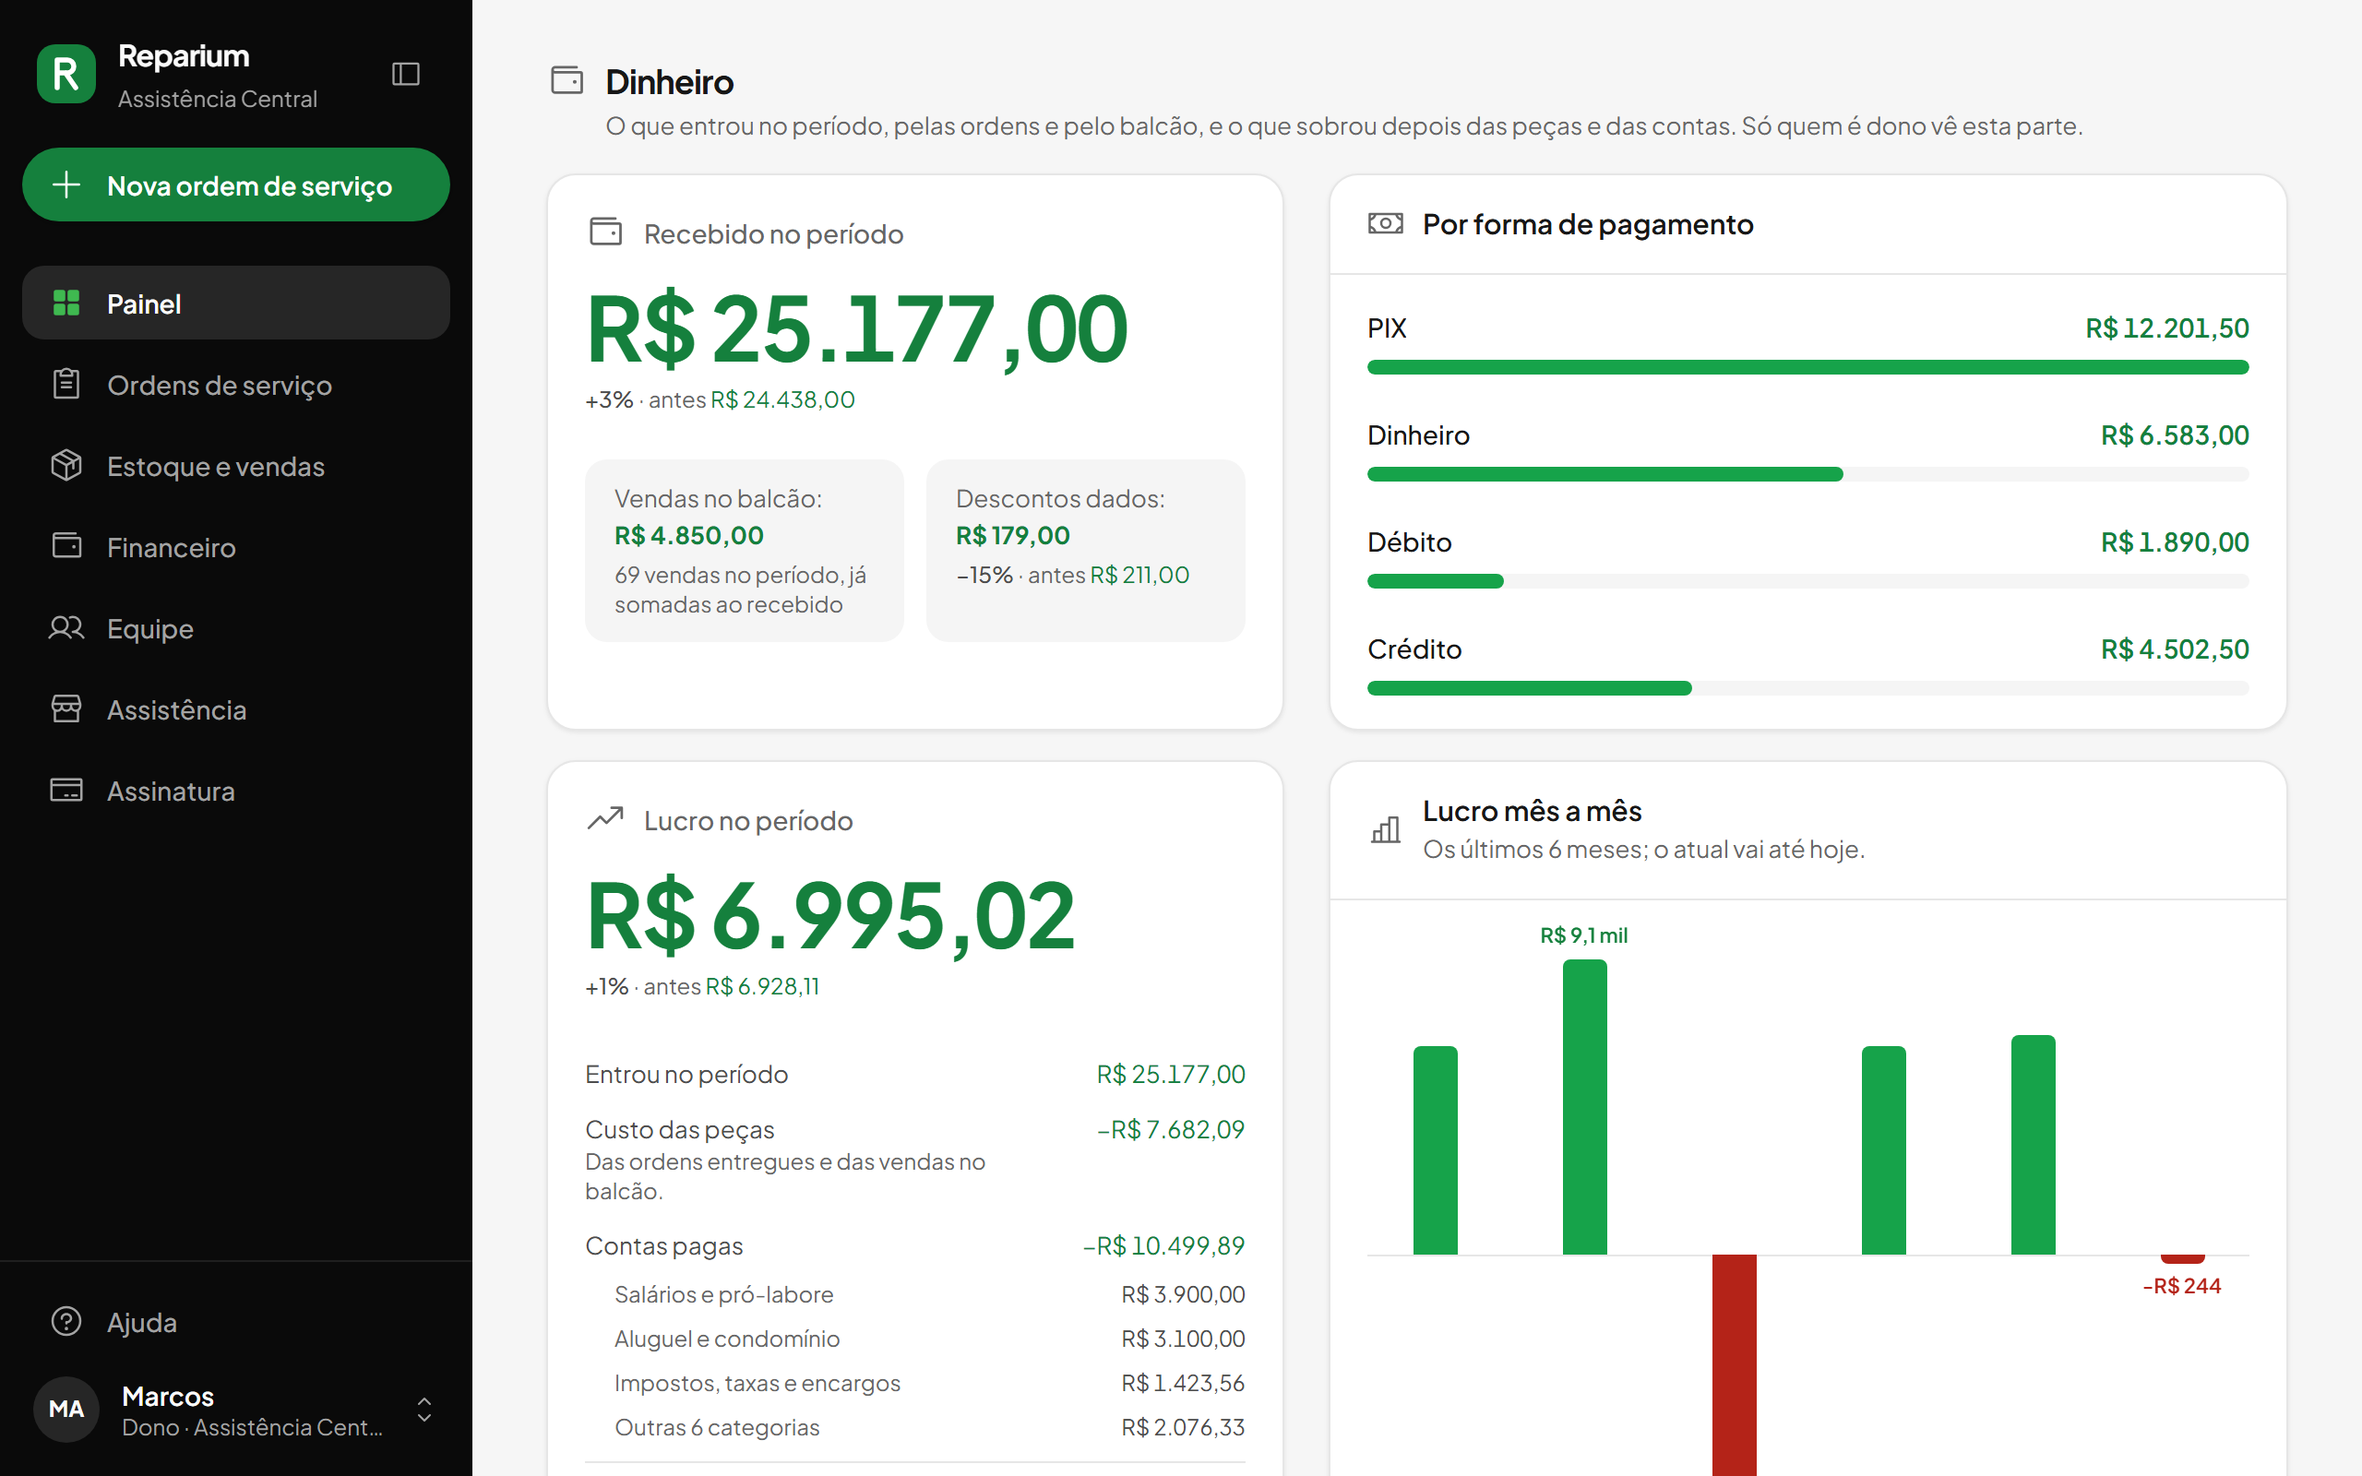
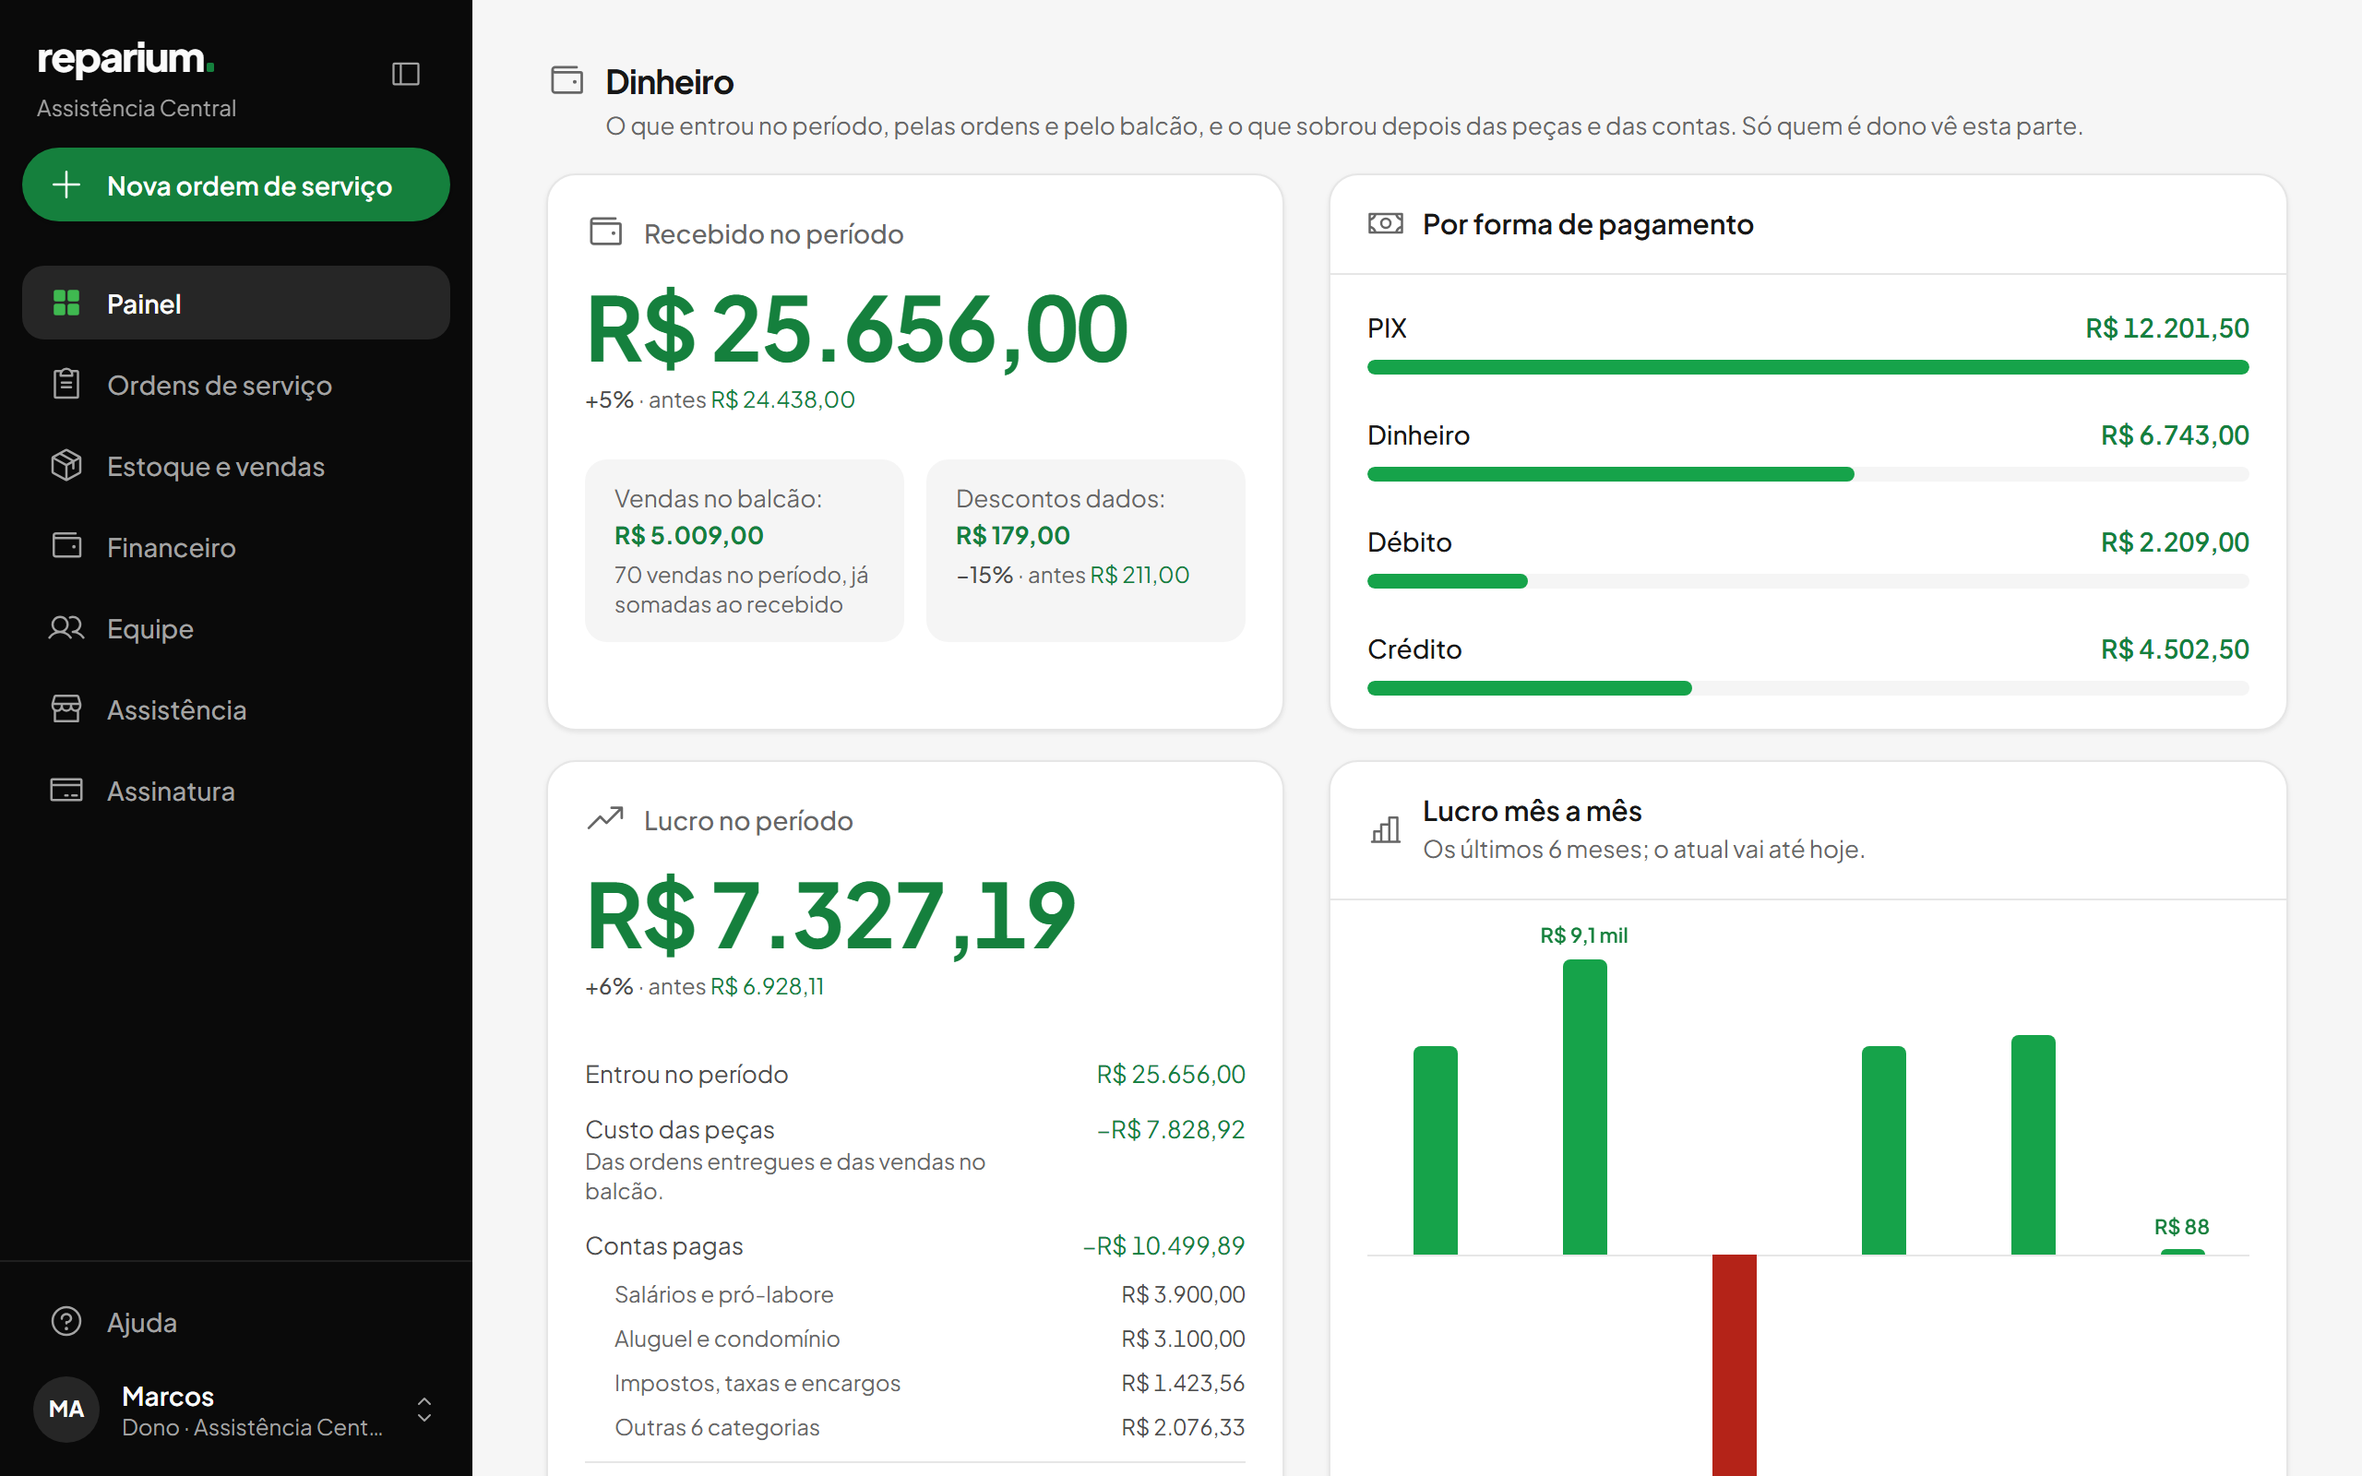
Marca nova: reparium em minusculas com o quadradinho verde
O nome escrito em minusculas, em Plus Jakarta Sans extranegrito, com um
quadradinho verde no lugar do ponto, substitui o "R" no quadrado verde.
Onde so cabe um icone (barra lateral recolhida, topo no celular, aba e
tela inicial do celular), vai o "r" desenhado com o quadradinho, num
quadrado preto. Icones, imagem de previa do link e capturas refeitos;
ADR 0024 e PLANO contam a escolha.

diff --git a/apps/web/src/componentes/TelaDeAcesso.tsx b/apps/web/src/componentes/TelaDeAcesso.tsx
@@ -1,6 +1,6 @@
 import Link from "next/link";
 import { ClipboardTextIcon, DeviceMobileIcon, FileTextIcon } from "@/componentes/icones";
-import { Marca, NomeDaMarca } from "@/componentes/ui/Marca";
+import { NomeDaMarca } from "@/componentes/ui/Marca";
 import { link } from "@/componentes/ui/estilos";
 import { buscarOfertaSeDisponivel, testeGratis } from "@/lib/oferta";
 import { linkDoSuporteParaVisitantes } from "@/lib/suporte";
@@ -26,10 +26,9 @@ async function PainelDaMarca() {
     <aside className="hidden bg-lateral text-lateral-texto lg:sticky lg:top-0 lg:flex lg:h-screen lg:flex-col lg:justify-between lg:p-12 xl:p-16">
       <Link
         href="/"
-        className="flex w-fit items-center gap-3 rounded-full focus-visible:outline-lateral-anel"
+        className="flex w-fit rounded-full focus-visible:outline-lateral-anel"
       >
-        <Marca tamanho="md" />
-        <NomeDaMarca className="text-xl" />
+        <NomeDaMarca className="text-[28px]" />
       </Link>
 
       <div className="max-w-md space-y-10">
@@ -70,9 +69,8 @@ export function TelaDeAcesso({ titulo, descricao, rodape, larga = false, childre
       <main className="flex min-h-screen items-center justify-center px-5 py-12 sm:px-8">
         <div className={`w-full space-y-8 ${larga ? "max-w-md" : "max-w-sm"}`}>
           <header className="space-y-6">
-            <Link href="/" className="flex w-fit items-center gap-3 rounded-full lg:hidden">
-              <Marca tamanho="md" />
-              <NomeDaMarca className="text-xl" />
+            <Link href="/" className="flex w-fit rounded-full lg:hidden">
+              <NomeDaMarca className="text-[28px]" />
             </Link>
             <div className="space-y-2">
               <h1 className="text-[28px] leading-tight font-bold tracking-tight">{titulo}</h1>

diff --git a/apps/web/src/componentes/ui/Marca.tsx b/apps/web/src/componentes/ui/Marca.tsx
@@ -4,24 +4,23 @@ const MEDIDAS = { sm: "size-8", md: "size-10" };
 
 type Props = { tamanho?: keyof typeof MEDIDAS; className?: string };
 
+// O "r" é desenhado, e não escrito com a fonte, porque o ícone da aba e o da tela do celular não
+// carregam a fonte do site. O mesmo desenho está em app/icon.svg.
 export function Marca({ tamanho = "sm", className }: Props) {
   return (
-    <svg viewBox="0 0 32 32" aria-hidden="true" className={juntar("shrink-0", MEDIDAS[tamanho], className)}>
-      <rect width="32" height="32" rx="10" className="fill-primario" />
-      <path
-        d="M11 23.5v-15h5.5a3.5 3.5 0 0 1 0 7H11m4.5 0 5.5 8"
-        fill="none"
-        stroke="#ffffff"
-        strokeWidth="2.75"
-        strokeLinejoin="round"
-        strokeLinecap="round"
-      />
+    <svg viewBox="0 0 64 64" aria-hidden="true" className={juntar("shrink-0", MEDIDAS[tamanho], className)}>
+      <rect width="64" height="64" rx="18" className="fill-lateral" />
+      <path d="M16.5 47V17H34v7.5c-5.2 0-9.4 3.2-9.4 7.2V47z" className="fill-lateral-texto" />
+      <rect x="37" y="36.5" width="10.5" height="10.5" rx="2.2" className="fill-primario" />
     </svg>
   );
 }
 
 export function NomeDaMarca({ className }: { className?: string }) {
   return (
-    <span className={juntar("text-lg leading-none font-bold tracking-tight", className)}>Reparium</span>
+    <span className={juntar("text-2xl leading-none font-extrabold tracking-[-0.04em] whitespace-nowrap", className)}>
+      reparium
+      <span aria-hidden="true" className="ml-[0.07em] inline-block size-[0.19em] rounded-[0.04em] bg-primario" />
+    </span>
   );
 }

diff --git a/apps/web/src/app/plataforma/layout.tsx b/apps/web/src/app/plataforma/layout.tsx
@@ -1,6 +1,6 @@
 import { notFound } from "next/navigation";
 import { MenuDaConta } from "@/componentes/MenuDaConta";
-import { Marca, NomeDaMarca } from "@/componentes/ui/Marca";
+import { NomeDaMarca } from "@/componentes/ui/Marca";
 import { usuarioAtual } from "@/lib/usuario";
 
 export default async function LayoutDaPlataforma({ children }: { children: React.ReactNode }) {
@@ -13,9 +13,8 @@ export default async function LayoutDaPlataforma({ children }: { children: React
     <div className="min-h-screen">
       <header className="sticky top-0 z-20 bg-lateral text-lateral-texto">
         <div className="mx-auto flex h-16 max-w-6xl items-center gap-3 pr-2 pl-4 sm:pr-4 sm:pl-6 lg:pr-8 lg:pl-10">
-          <Marca />
-          <p className="flex min-w-0 flex-1 items-center gap-2.5 truncate">
-            <NomeDaMarca className="text-base" />
+          <p className="flex min-w-0 flex-1 items-center gap-3 truncate">
+            <NomeDaMarca className="text-[22px]" />
             <span className="rounded-full bg-lateral-realce px-2.5 py-0.5 text-xs font-semibold text-lateral-texto-suave">
               Plataforma
             </span>

diff --git a/apps/web/src/app/demonstracao/page.tsx b/apps/web/src/app/demonstracao/page.tsx
@@ -3,7 +3,7 @@ import Link from "next/link";
 import { Acompanhamento } from "@/componentes/Acompanhamento";
 import { Estatisticas } from "@/componentes/Estatisticas";
 import { ArrowRightIcon } from "@/componentes/icones";
-import { Marca, NomeDaMarca } from "@/componentes/ui/Marca";
+import { NomeDaMarca } from "@/componentes/ui/Marca";
 import { botao, juntar } from "@/componentes/ui/estilos";
 import {
   ETAPAS_DA_DEMONSTRACAO,
@@ -32,8 +32,7 @@ export default async function Demonstracao({ searchParams }: Props) {
       <div className="border-b border-borda bg-superficie">
         <div className="mx-auto max-w-lg space-y-4 px-4 py-4">
           <div className="flex items-center justify-between gap-3">
-            <Link href="/" className="inline-flex items-center gap-2.5 rounded-full">
-              <Marca />
+            <Link href="/" className="inline-flex rounded-full">
               <NomeDaMarca />
             </Link>
             <Link href="/cadastro" className={botao("primario", "sm")}>

diff --git a/apps/web/src/app/(inicio)/rodape.tsx b/apps/web/src/app/(inicio)/rodape.tsx
@@ -1,6 +1,6 @@
 import Link from "next/link";
 import { WhatsappLogoIcon } from "@/componentes/icones";
-import { Marca, NomeDaMarca } from "@/componentes/ui/Marca";
+import { NomeDaMarca } from "@/componentes/ui/Marca";
 import { juntar } from "@/componentes/ui/estilos";
 import { hojeEmIso } from "@/lib/datas";
 import { conteiner } from "./secao";
@@ -40,8 +40,7 @@ export function Rodape({ whatsapp }: { whatsapp: string | null }) {
       <div className={juntar(conteiner, "py-14")}>
         <div className="grid gap-10 sm:grid-cols-3 lg:grid-cols-[minmax(0,2fr)_repeat(3,minmax(0,1fr))]">
           <div className="space-y-4 sm:col-span-3 lg:col-span-1">
-            <Link href="/" className="inline-flex items-center gap-2.5 rounded-full">
-              <Marca />
+            <Link href="/" className="inline-flex rounded-full">
               <NomeDaMarca />
             </Link>
             <p className="max-w-xs text-sm leading-relaxed text-texto-apagado">

diff --git a/apps/web/src/componentes/TextoLegal.tsx b/apps/web/src/componentes/TextoLegal.tsx
@@ -1,7 +1,7 @@
 import Link from "next/link";
 import { Estatisticas } from "@/componentes/Estatisticas";
 import { CaretLeftIcon } from "@/componentes/icones";
-import { Marca, NomeDaMarca } from "@/componentes/ui/Marca";
+import { NomeDaMarca } from "@/componentes/ui/Marca";
 import { linkDoSuporteParaVisitantes } from "@/lib/suporte";
 import { EMAIL_DE_CONTATO } from "@/lib/textosLegais";
 
@@ -11,8 +11,7 @@ export function TextoLegal({ titulo, versao, children }: Props) {
   return (
     <main className="mx-auto max-w-2xl px-4 py-12">
       <header className="mb-8 space-y-6">
-        <Link href="/" className="inline-flex items-center gap-3 rounded-full">
-          <Marca />
+        <Link href="/" className="inline-flex rounded-full">
           <NomeDaMarca />
         </Link>
         <div className="space-y-1">

diff --git a/apps/web/src/app/(inicio)/cabecalho.tsx b/apps/web/src/app/(inicio)/cabecalho.tsx
@@ -1,5 +1,5 @@
 import Link from "next/link";
-import { Marca, NomeDaMarca } from "@/componentes/ui/Marca";
+import { NomeDaMarca } from "@/componentes/ui/Marca";
 import { botao, juntar } from "@/componentes/ui/estilos";
 import { conteiner } from "./secao";
 
@@ -14,8 +14,7 @@ export function Cabecalho() {
   return (
     <header className="sticky top-0 z-30 border-b border-borda bg-superficie">
       <div className={juntar(conteiner, "flex h-16 items-center justify-between gap-4")}>
-        <Link href="/" className="flex items-center gap-2.5 rounded-full">
-          <Marca />
+        <Link href="/" className="flex rounded-full">
           <NomeDaMarca />
         </Link>
 

diff --git a/apps/web/src/app/(app)/barraLateral.tsx b/apps/web/src/app/(app)/barraLateral.tsx
@@ -155,9 +155,8 @@ export function BarraLateral({
             </button>
           ) : (
             <>
-              <Marca />
               <div className="min-w-0 flex-1 animate-aparecer">
-                <NomeDaMarca className="block text-base" />
+                <NomeDaMarca className="block text-[22px]" />
                 {assistencia && (
                   <p className="mt-1 truncate text-xs text-lateral-texto-suave">{assistencia}</p>
                 )}

diff --git a/docs/adr/0024-identidade-visual-do-reparium.md b/docs/adr/0024-identidade-visual-do-reparium.md
@@ -188,7 +188,7 @@ continuam como opção no menu da conta. A escolha fica no cookie `tema`, com o 
 
 No computador, o botão ao lado da marca recolhe a barra lateral para 72px, só com os ícones. Ao
 passar o mouse, ou chegar pelo teclado, num ícone, aparece ao lado uma dica preta com o nome do item.
-Recolhida, a marca vira o botão de expandir: ao passar o mouse, o "R" dá lugar ao ícone de abrir o
+Recolhida, a marca vira o botão de expandir: ao passar o mouse, o "r" dá lugar ao ícone de abrir o
 painel. Os menus de ajuda e da conta passam a abrir para o lado.
 
 Os ícones ficam exatamente no mesmo lugar nos dois estados. Ao recolher, só a largura anima, em
@@ -234,8 +234,13 @@ resto da tela continua clicável; ver as regras do tour na ADR 0020.
   fundo branco.
 - Página do cliente com o nome da loja, a barra de etapas com ícones, a previsão de entrega e o
   contato com a loja em destaque quando ele precisa responder ao orçamento ou retirar o aparelho.
-- Marca: um "R" branco num quadrado verde arredondado, no sistema, no ícone da aba e no da tela
-  inicial do celular.
+- Marca: o nome em minúsculas, "reparium", em Plus Jakarta Sans extranegrito, seguido de um
+  quadradinho verde no lugar do ponto final. Onde só cabe um ícone (a barra lateral recolhida, a
+  barra do topo no celular, a aba do navegador e a tela inicial do celular), vai o "r" branco com o
+  quadradinho verde, num quadrado preto arredondado. O "r" do ícone é desenhado, e não escrito com
+  a fonte, porque a aba e a tela do celular não carregam a fonte do site. Até 11 de novembro de 2026
+  a marca era um "R" branco num quadrado verde; o nome escrito foi escolhido pelo Henrique entre
+  seis propostas.
 
 ## Consequências
 

diff --git a/docs/PLANO.md b/docs/PLANO.md
@@ -997,13 +997,15 @@ Em 11 de novembro, o Henrique registrou reparium.com.br, e o produto deixou de s
 para se chamar Reparium. Em 9 de novembro, bancada.com.br já tinha dono, o nome estava em vários
 sistemas lançados em 2026, um deles para assistências técnicas, e uma palavra comum é difícil de
 proteger como marca. Como ainda não havia servidor nem cliente, tudo mudou de uma vez: os textos, a
-marca, que virou um "R" (ADR 0024), a imagem de prévia do link, o pacote Python
+marca, a imagem de prévia do link, o pacote Python
 (`apps/api/reparium`), o banco e os papéis do Postgres, o projeto do Compose, a chave de
 criptografia (`REPARIUM_ENCRYPTION_KEY`), o cookie de sessão (`reparium_token`) e a variável do
 isolamento (`reparium.tenant_id`). Os termos e a privacidade ganharam a versão 2026-11-11, com o nome
 novo. O repositório no GitHub também mudou de nome, para HenriqueLiuti5/reparium; só o histórico
 do git guarda o nome antigo. "bancada" com artigo feminino segue nas telas como a mesa do técnico,
-como no indicador "Na bancada".
+como no indicador "Na bancada". A marca virou primeiro um "R" num quadrado verde e, no mesmo dia,
+entre seis propostas, o Henrique escolheu o nome escrito em minúsculas, "reparium", com um
+quadradinho verde no lugar do ponto; o ícone é o "r" com o quadradinho (ADR 0024).
 
 A entrega contínua, que publicaria as imagens montadas pela CI num registro para o servidor
 buscá-las, saiu da fase em 3 de novembro: até haver motivo, o servidor é atualizado à mão.
